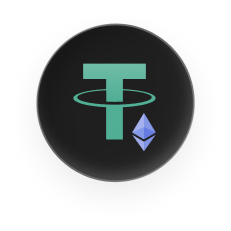
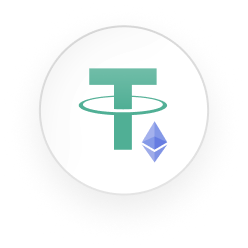
Update coin bubble assets and components
- Update landing page coin bubble images with new designs
- Remove unused coin-bubble-wave-juice.png
- Update CoinBubble component and Hero sections
- Update E2E test snapshots

diff --git a/apps/web/src/pages/Landing/sections/Hero.tsx b/apps/web/src/pages/Landing/sections/Hero.tsx
@@ -2,7 +2,7 @@ import { ColumnCenter } from 'components/deprecated/Column'
 import { useCurrency } from 'hooks/Tokens'
 import { useScroll } from 'hooks/useScroll'
 import { Hover, RiseIn, RiseInText } from 'pages/Landing/components/animations'
-import { CoinBubble, COIN_BUBBLE_ASSETS } from 'pages/Landing/components/CoinBubble'
+import { COIN_BUBBLE_ASSETS, CoinBubble } from 'pages/Landing/components/CoinBubble'
 import { Swap } from 'pages/Swap'
 import { Fragment, useCallback, useMemo } from 'react'
 import { ChevronDown } from 'react-feather'
@@ -10,7 +10,7 @@ import { Trans, useTranslation } from 'react-i18next'
 import { useNavigate } from 'react-router'
 import { useIsBAppsCampaignVisible } from 'services/bappsCampaign/hooks'
 import { serializeSwapStateToURLParameters } from 'state/swap/hooks'
-import { Flex, Text, styled, useMedia } from 'ui/src'
+import { Flex, styled, Text, useMedia } from 'ui/src'
 import { INTERFACE_NAV_HEIGHT } from 'ui/src/theme'
 import { useEnabledChains } from 'uniswap/src/features/chains/hooks/useEnabledChains'
 import { UniverseChainId } from 'uniswap/src/features/chains/types'
@@ -231,9 +231,6 @@ export function Hero({ scrollToRef, transition }: HeroProps) {
         </BubblePosition>
         <BubblePosition left="23%" top={317} delay={3}>
           <CoinBubble src={COIN_BUBBLE_ASSETS.waveWbtcCitrea} alt="WBTC+Citrea" size={70} />
-        </BubblePosition>
-        <BubblePosition right="21.3%" top={237} delay={2}>
-          <CoinBubble src={COIN_BUBBLE_ASSETS.waveJuice} alt="Juice" size={80} />
         </BubblePosition>
         <BubblePosition right="5.8%" top={271} delay={3}>
           <CoinBubble src={COIN_BUBBLE_ASSETS.waveUsdSmall} alt="USD" size={80} />

diff --git a/apps/web/src/pages/Juice/sections/Hero.tsx b/apps/web/src/pages/Juice/sections/Hero.tsx
@@ -113,12 +113,7 @@ export function Hero() {
   return (
     <HeroContainer>
       <LogoContainer>
-        <img
-          src="https://app.testnet.juicedollar.com/coin/juice.svg"
-          alt="JUICE Token"
-          width={120}
-          height={120}
-        />
+        <img src="https://app.testnet.juicedollar.com/coin/juice.svg" alt="JUICE Token" width={120} height={120} />
       </LogoContainer>
 
       <GradientTitle>

diff --git a/apps/web/src/pages/Landing/components/CoinBubble.tsx b/apps/web/src/pages/Landing/components/CoinBubble.tsx
@@ -31,6 +31,5 @@ export const COIN_BUBBLE_ASSETS = {
   waveBtcSmall: '/images/landing_page/coin-bubble-wave-btc-small.png',
   waveUsdLarge: '/images/landing_page/coin-bubble-wave-usd-large.png',
   waveUsdSmall: '/images/landing_page/coin-bubble-wave-usd-small.png',
-  waveJuice: '/images/landing_page/coin-bubble-wave-juice.png',
   waveWbtcCitrea: '/images/landing_page/coin-bubble-wave-wbtc-citrea.png',
 } as const

diff --git a/apps/web/e2e/pages/Landing/Landing.e2e.test.ts b/apps/web/e2e/pages/Landing/Landing.e2e.test.ts
@@ -1,5 +1,5 @@
-import { expect, test } from '../../fixtures'
 import { TestID } from 'uniswap/src/test/fixtures/testIDs'
+import { expect, test } from '../../fixtures'
 
 // Viewport sizes for visual regression testing
 const DESKTOP_VIEWPORT = { width: 1440, height: 900 }
